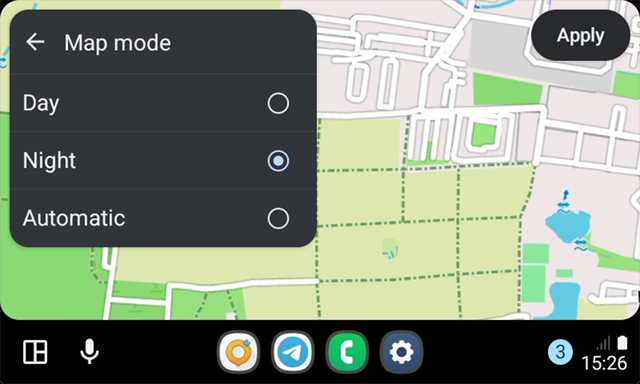
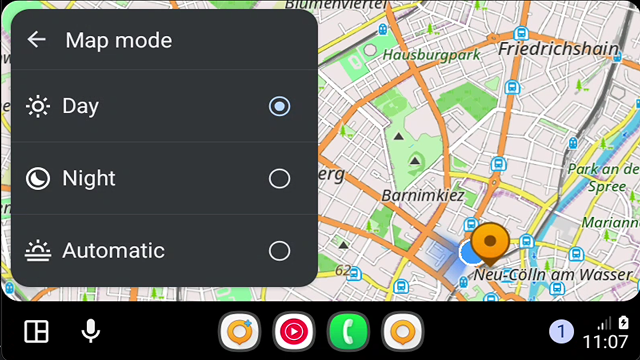
Update Android Auto

diff --git a/main/docs/user/navigation/auto-car.md b/main/docs/user/navigation/auto-car.md
@@ -360,7 +360,7 @@ To enable or disable [**Route info** for an intermediate point (next stop)](#nex
 
 *Android Auto* and OsmAnd offer the ability to adjust the map to match lighting conditions. In *Day map mode*, the color scheme remains bright and contrasting, making it easier to read even in bright sunlight. In *Night mode*, the maps become darker, which helps the driver navigate better in the dark.  
 
-OsmAnd in *Android Auto* has its own map mode setting, separate from the [map mode](../map/vector-maps.md#map-mode) options in the OsmAnd app on your device. To change it, go to *Android Auto (OsmAnd) → Setting button → Map mode*, select an option, and tap *Apply*. The map switches to the selected mode after you tap *Apply*. If you leave the screen with the back arrow without tapping *Apply*, the previous mode remains selected.
+OsmAnd in *Android Auto* has its own map mode setting, separate from the [map mode](../map/vector-maps.md#map-mode) options in the OsmAnd app on your device. To change it, go to *Android Auto (OsmAnd) → Setting button → Map mode* and select an option. The selected mode is applied immediately, and the screen returns to the Settings list.
 
 - Select *Day* or *Night* to keep the map display unchanged, regardless of signals from your vehicle.
 - If you want the map display mode to switch automatically based on signals from your vehicle, select *Automatic* (default).  
@@ -370,7 +370,7 @@ OsmAnd in *Android Auto* has its own map mode setting, separate from the [map mo
 
 ![Android Auto Map Magnifier](@site/static/img/navigation/auto-car/android_auto_map_magnifier.webp)
 
-*Map magnifier* changes the magnification of the map on the *Android Auto* screen. To change it, go to *Android Auto (OsmAnd) → Setting button → Map magnifier*, select a value from 50% to 125%, and tap *Apply*. The current value is shown under *Map magnifier* in the settings list.  
+*Map magnifier* changes the magnification of the map on the *Android Auto* screen. To change it, go to *Android Auto (OsmAnd) → Setting button → Map magnifier*, select a value, and tap *Apply*. The current value is shown under *Map magnifier* in the settings list.  
 
 To learn how magnification affects the map display, see [Map magnifier](../map/vector-maps.md#map-magnifier).
 
